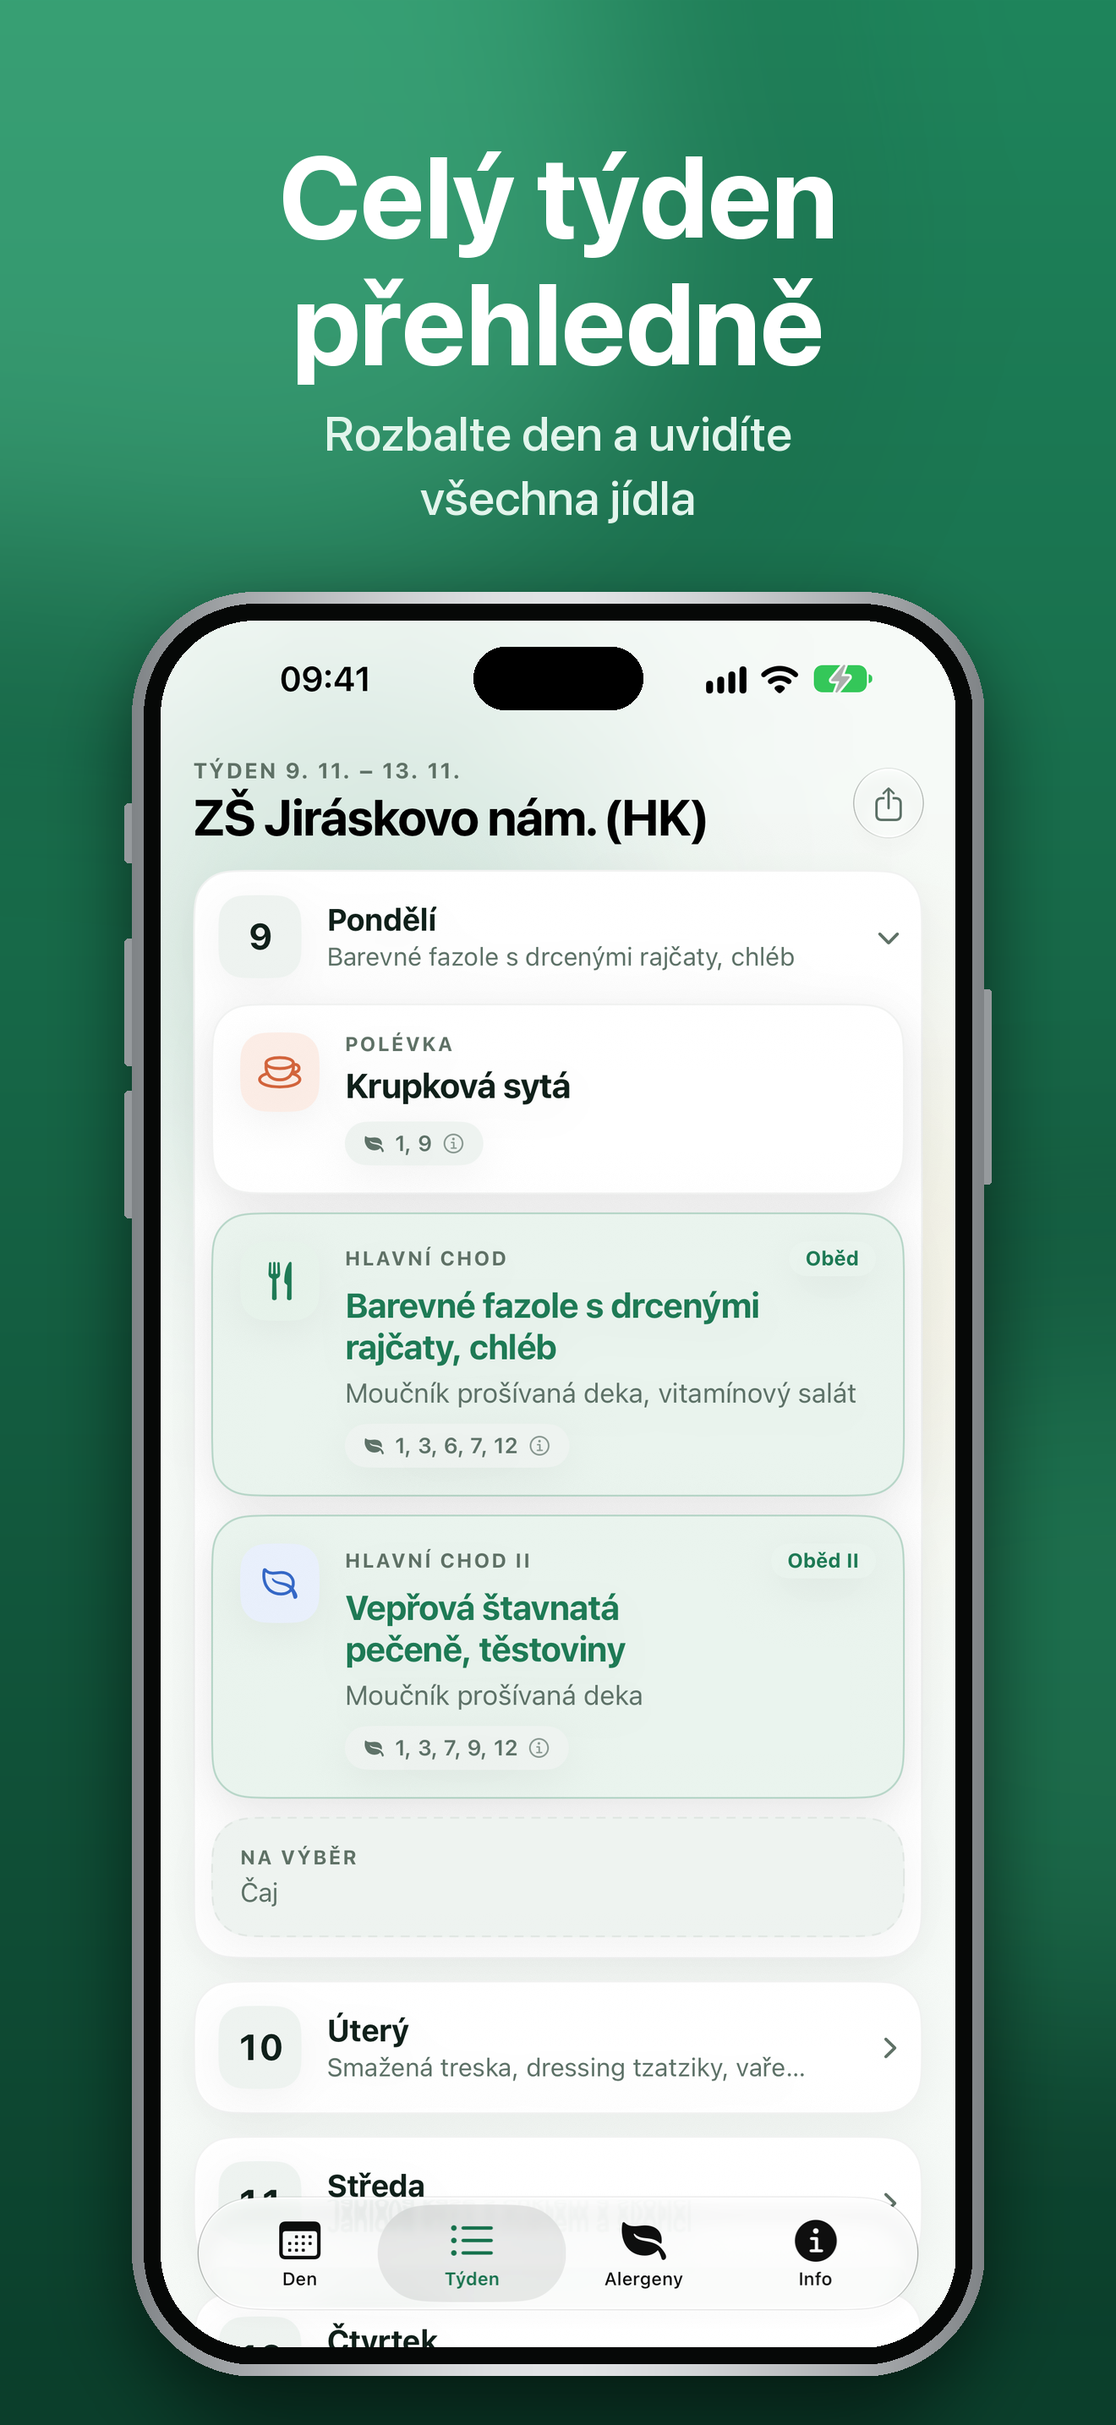
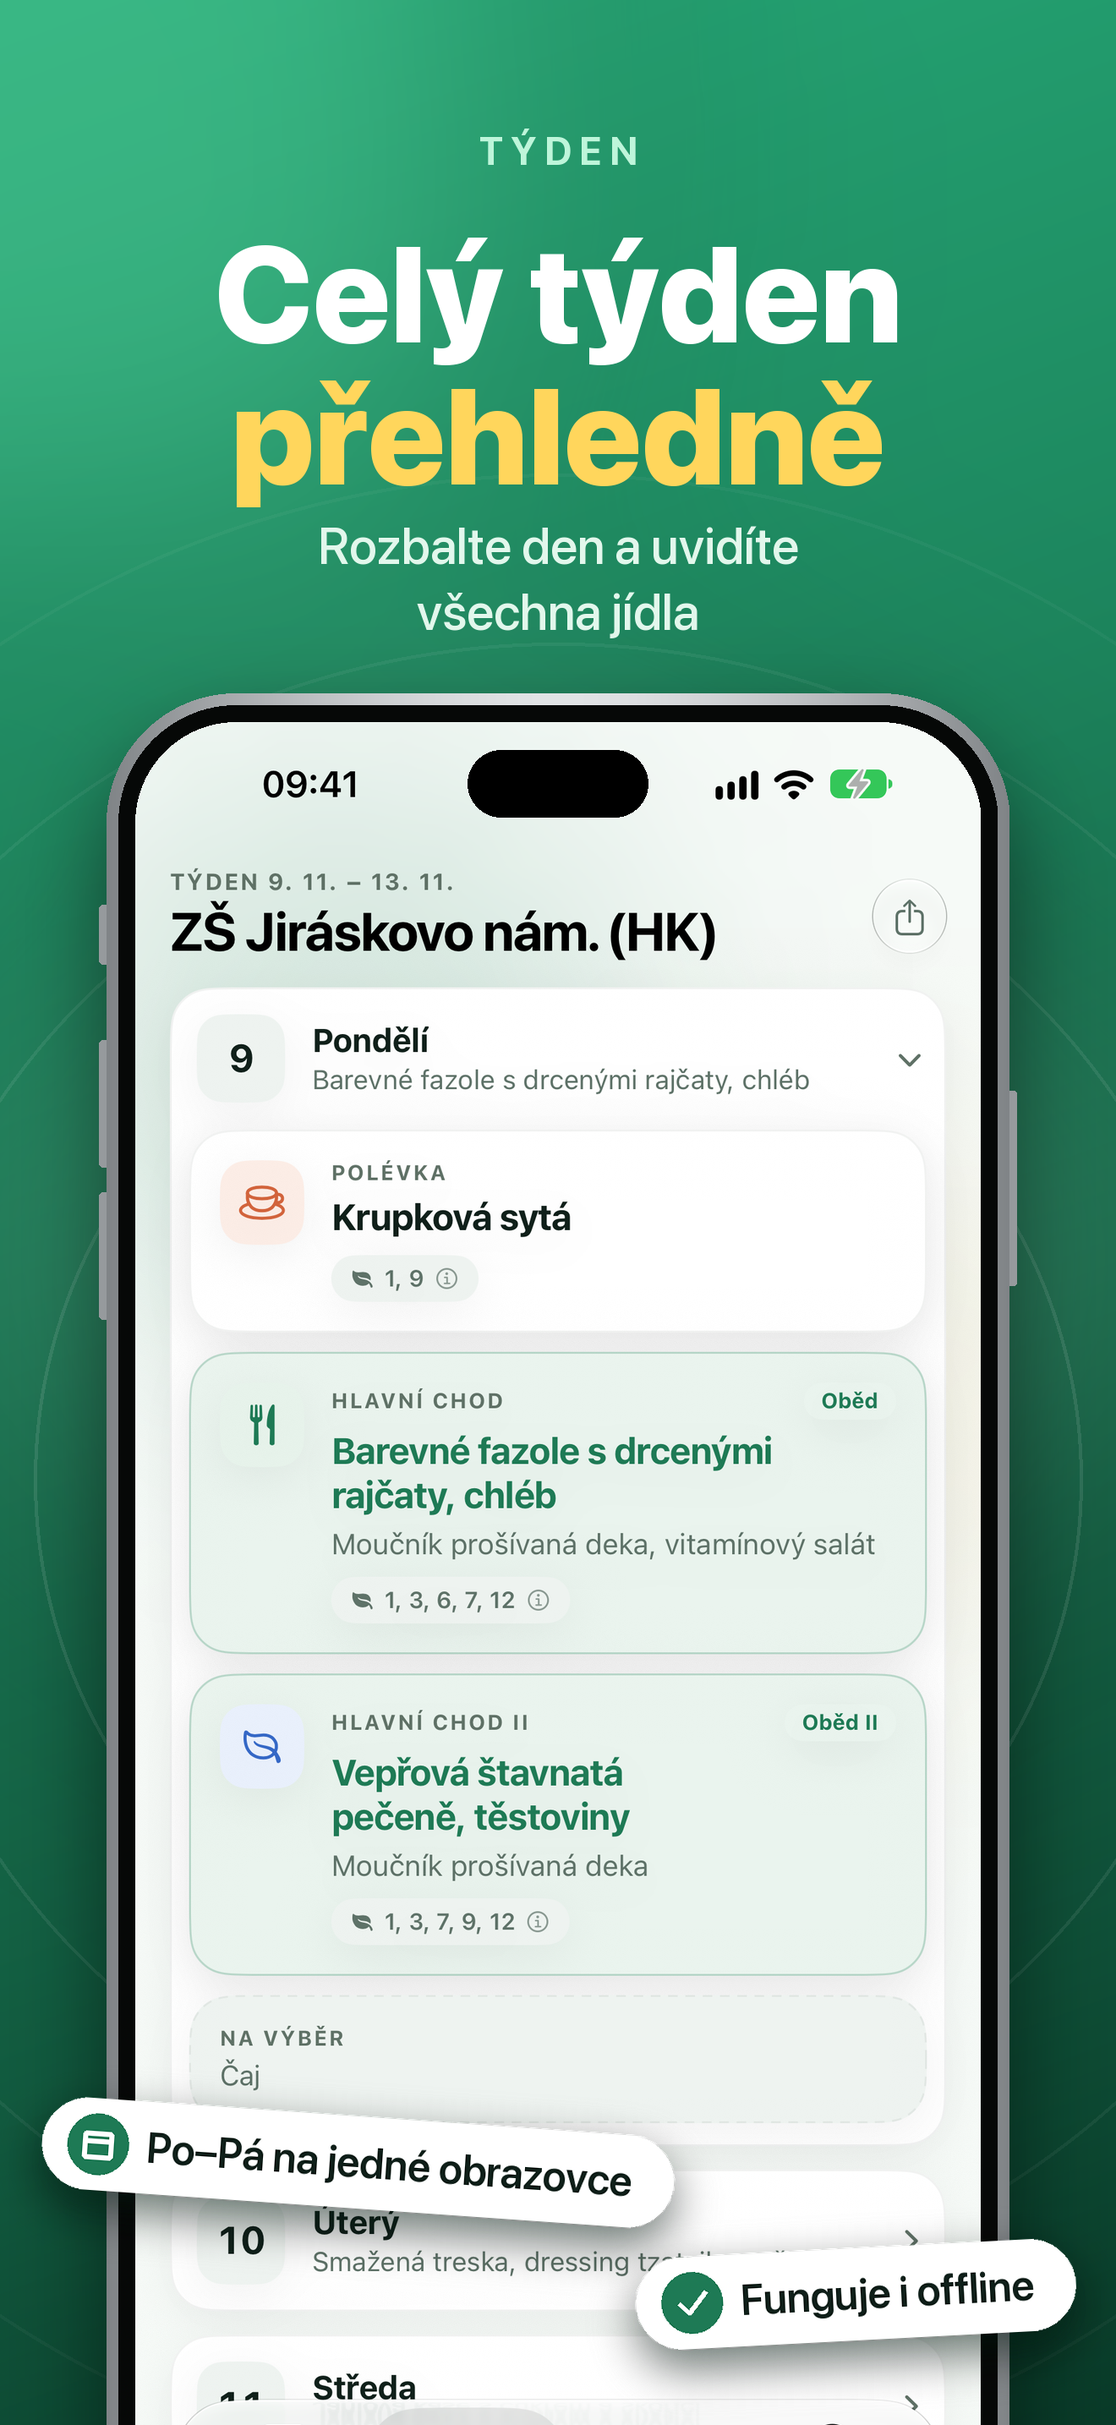
App Store screenshoty: přepracovaná grafika (výrazný nadpis se zvýrazněním, kruhy talíře, větší telefon, bubliny s výhodami, ikona na první obrazovce)

diff --git a/tools/make-screenshots.py b/tools/make-screenshots.py
@@ -1,40 +1,44 @@
 #!/usr/bin/env python3
-"""Složí App Store screenshoty (1320×2868, 6,9") z reálných snímků simulátoru + nadpisů.
+"""Složí App Store screenshoty (1320×2868, 6,9") z reálných snímků simulátoru.
 
     python3 tools/make-screenshots.py
 
 Vstup:  docs/app-store-screenshots/raw/<n>-<název>.png (snímky iPhone 18 Pro Max, světlý režim, 9:41)
 Výstup: docs/app-store-screenshots/<n>-<název>.png
-Písmo: SF Pro (systémové, macOS). Barvy z palety appky.
+Grafika: zelený přechod z palety appky, kruhy „talíře“ v pozadí, nadpis písmem SF Pro (Heavy) se
+zvýrazněným slovem, realistický rám iPhonu a plovoucí „bubliny“ s výhodami. Jména osob se rozostřují.
 """
+import math
 from pathlib import Path
-from PIL import Image, ImageDraw, ImageFilter, ImageFont
+from PIL import Image, ImageChops, ImageDraw, ImageFilter, ImageFont
 
 ROOT = Path(__file__).resolve().parent.parent
 RAW = ROOT / "docs" / "app-store-screenshots" / "raw"
 OUT = ROOT / "docs" / "app-store-screenshots"
 W, H = 1320, 2868
 SF = "/System/Library/Fonts/SFNS.ttf"
+ZVYRAZNENI = (255, 214, 92)          # teplá žlutá – kontrast k zelené
+MINT = (190, 245, 218)
+TMAVA_ZELENA = (14, 84, 58)
 
-SLIDY = [
-    ("1-den", "Co je dnes\nk obědu?", "Jídelníček vaší školy nebo školky\nna jednom místě"),
-    ("2-tyden", "Celý týden\npřehledně", "Rozbalte den a uvidíte\nvšechna jídla"),
-    ("3-obedy", "Vidíte, co má dítě\npřihlášené", "Objednané obědy z jidelna.cz\nu každého dítěte"),
-    ("4-alergeny", "Hlídejte\nalergeny", "Jídla s vaším alergenem\nse hned zvýrazní"),
-    ("5-info", "Vše o jídelně\nna dosah", "Kontakty, doby výdeje,\nředitel i číslo účtu"),
-    ("6-alergeny-nastaveni", "Nastavte,\nco dítě nesmí", "Vlastní alergeny pro každé dítě,\nvšechny na jednom místě"),
-]
-
-
-# Jména skutečných lidí (vedoucí jídelny/kuchyně, ředitel) se v reklamních snímcích rozostřují: {snímek: [(x0, y0, x1, y1), …]}
+# Jména skutečných lidí (vedoucí jídelny/kuchyně, ředitel) se rozostřují: {snímek: [(x0, y0, x1, y1), …]}
 ROZMAZAT = {"5-info": [(560, 2190, 1260, 2270), (560, 2326, 1260, 2406), (560, 2462, 1260, 2540)]}
 
-
-def rozmazat(im, boxy):
-    for b in boxy:
-        oblast = im.crop(b).filter(ImageFilter.GaussianBlur(16))
-        im.paste(oblast, b[:2])
-    return im
+# (soubor, eyebrow, nadpis se {zvýrazněním}, podnadpis, bubliny [(text, ikona, x, y, úhel)])
+SLIDY = [
+    ("1-den", "", "Co je dnes\nk {obědu}?", "Jídelníček školy nebo školky\nna jednom místě",
+     [("Výdej 11:00–14:00", "hodiny", 40, 2470, -4), ("Alergeny u každého jídla", "list", -40, 2640, 3)]),
+    ("2-tyden", "TÝDEN", "Celý týden\n{přehledně}", "Rozbalte den a uvidíte\nvšechna jídla",
+     [("Po–Pá na jedné obrazovce", "kalendar", 40, 2470, -4), ("Funguje i offline", "ok", -40, 2640, 3)]),
+    ("3-obedy", "OBJEDNÁNO", "Vidíte, co má dítě\n{přihlášené}", "Objednané obědy z jidelna.cz\nu každého dítěte",
+     [("Přihlášeno · menu 1", "ok", 40, 2470, -4), ("Appka jen čte, nic neodhlašuje", "zamek", -40, 2640, 3)]),
+    ("4-alergeny", "ALERGENY", "Hlídejte\n{alergeny}", "Jídla s vaším alergenem\nse hned zvýrazní",
+     [("Alergen 6 · soja", "vykricnik", 40, 2470, -4), ("Pro každé dítě zvlášť", "osoba", -40, 2640, 3)]),
+    ("5-info", "JÍDELNA", "Vše o jídelně\n{na dosah}", "Kontakty, doby výdeje,\nředitel i číslo účtu",
+     [("Doba výdeje", "hodiny", 40, 2470, -4), ("Telefon · e-mail · web", "telefon", -40, 2640, 3)]),
+    ("6-alergeny-nastaveni", "NASTAVENÍ", "Nastavte,\nco dítě {nesmí}", "Vlastní alergeny pro každé dítě,\nvšechny na jednom místě",
+     [("Profil pro každé dítě", "osoba", 40, 2470, -4), ("Upozornění v 18:00", "zvonek", -40, 2640, 3)]),
+]
 
 
 def pismo(vel, vaha):
@@ -43,37 +47,129 @@ def pismo(vel, vaha):
     return f
 
 
+def rozmazat(im, boxy):
+    for b in boxy:
+        im.paste(im.crop(b).filter(ImageFilter.GaussianBlur(16)), b[:2])
+    return im
+
+
+# ── pozadí ─────────────────────────────────────────────────────────────
+
 def pozadi():
-    # svislý přechod z palety appky + dvě rozostřené záře
-    g = Image.new("RGB", (W, H))
-    px = g.load()
-    horni, dolni = (31, 133, 92), (11, 62, 43)
-    for y in range(H):
-        t = y / (H - 1)
-        c = tuple(int(horni[i] + (dolni[i] - horni[i]) * t) for i in range(3))
-        for x in range(W):
-            px[x, y] = c
-    z = Image.new("RGBA", (W, H), (0, 0, 0, 0))
-    d = ImageDraw.Draw(z)
-    d.ellipse((-300, -200, 900, 800), fill=(120, 230, 180, 70))
-    d.ellipse((700, 1500, 1700, 2500), fill=(70, 200, 140, 55))
-    z = z.filter(ImageFilter.GaussianBlur(160))
-    return Image.alpha_composite(g.convert("RGBA"), z)
+    """Diagonální přechod + velká záře za telefonem + soustředné kruhy (odkaz na talíř z ikony)."""
+    import numpy as np
+    a, b = np.array((38, 168, 118), float), np.array((9, 58, 40), float)
+    yy, xx = np.mgrid[0:H, 0:W]
+    t = (xx * 0.35 + yy * 0.94) / (W * 0.35 + H * 0.94)          # diagonála shora doleva → dolů
+    t = np.clip(t, 0, 1)[..., None] ** 1.15
+    zakl = Image.fromarray((a + (b - a) * t).astype("uint8"), "RGB").convert("RGBA")
+    vrstva = Image.new("RGBA", (W, H), (0, 0, 0, 0))
+    d = ImageDraw.Draw(vrstva)
+    # záře
+    d.ellipse((60, 880, 1260, 2080), fill=(170, 255, 214, 95))
+    d.ellipse((-420, -260, 700, 760), fill=(120, 235, 180, 60))
+    vrstva = vrstva.filter(ImageFilter.GaussianBlur(190))
+    zakl = Image.alpha_composite(zakl, vrstva)
+    # kruhy
+    kruhy = Image.new("RGBA", (W, H), (0, 0, 0, 0))
+    d = ImageDraw.Draw(kruhy)
+    cx, cy = W // 2, 1750
+    for r, al in ((620, 26), (800, 20), (990, 14), (1190, 9)):
+        d.ellipse((cx - r, cy - r, cx + r, cy + r), outline=(255, 255, 255, al), width=4)
+    return Image.alpha_composite(zakl, kruhy)
 
 
-def zaoblit(im, r):
-    m = Image.new("L", im.size, 0)
-    ImageDraw.Draw(m).rounded_rectangle((0, 0, im.size[0], im.size[1]), r, fill=255)
-    out = im.convert("RGBA"); out.putalpha(m)
-    return out
+# ── text ──────────────────────────────────────────────────────────────
 
+def sirka(d, txt, f, track=0):
+    return d.textlength(txt, font=f) + track * max(len(txt) - 1, 0)
+
+
+def kresli(d, x, y, txt, f, fill, track=0):
+    if not track:
+        d.text((x, y), txt, font=f, fill=fill)
+        return x + d.textlength(txt, font=f)
+    for ch in txt:
+        d.text((x, y), ch, font=f, fill=fill)
+        x += d.textlength(ch, font=f) + track
+    return x
+
+
+def nadpis_radek(d, y, radek, f):
+    """Řádek s {zvýrazněním}: bílý text + žluté slovo, vystředěno."""
+    casti, i = [], 0
+    while i < len(radek):
+        if radek[i] == "{":
+            j = radek.index("}", i)
+            casti.append((radek[i + 1:j], ZVYRAZNENI)); i = j + 1
+        else:
+            j = radek.find("{", i); j = len(radek) if j < 0 else j
+            casti.append((radek[i:j], (255, 255, 255))); i = j
+    celkem = sum(d.textlength(t, font=f) for t, _ in casti)
+    x = (W - celkem) / 2
+    for t, c in casti:
+        x = kresli(d, x, y, t, f, c + (255,))
+
+
+# ── bubliny ───────────────────────────────────────────────────────────
+
+def ikona(d, kind, cx, cy, r, barva):
+    d.ellipse((cx - r, cy - r, cx + r, cy + r), fill=barva)
+    b = (255, 255, 255, 255)
+    lw = max(r // 6, 4)
+    if kind == "ok":
+        d.line([(cx - r * .42, cy + r * .02), (cx - r * .1, cy + r * .34), (cx + r * .48, cy - r * .34)], fill=b, width=lw, joint="curve")
+    elif kind == "vykricnik":
+        d.line([(cx, cy - r * .5), (cx, cy + r * .12)], fill=b, width=lw)
+        d.ellipse((cx - lw * .7, cy + r * .36, cx + lw * .7, cy + r * .36 + lw * 1.4), fill=b)
+    elif kind == "hodiny":
+        d.ellipse((cx - r * .55, cy - r * .55, cx + r * .55, cy + r * .55), outline=b, width=lw)
+        d.line([(cx, cy), (cx, cy - r * .35)], fill=b, width=lw); d.line([(cx, cy), (cx + r * .28, cy + r * .12)], fill=b, width=lw)
+    elif kind == "kalendar":
+        d.rounded_rectangle((cx - r * .5, cy - r * .42, cx + r * .5, cy + r * .5), r * .12, outline=b, width=lw)
+        d.line([(cx - r * .5, cy - r * .1), (cx + r * .5, cy - r * .1)], fill=b, width=lw)
+    elif kind == "zamek":
+        d.rounded_rectangle((cx - r * .42, cy - r * .05, cx + r * .42, cy + r * .5), r * .1, fill=b)
+        d.arc((cx - r * .28, cy - r * .55, cx + r * .28, cy + r * .12), 180, 360, fill=b, width=lw)
+    elif kind == "osoba":
+        d.ellipse((cx - r * .22, cy - r * .5, cx + r * .22, cy - r * .06), fill=b)
+        d.pieslice((cx - r * .5, cy + r * .02, cx + r * .5, cy + r * .9), 180, 360, fill=b)
+    elif kind == "telefon":
+        d.rounded_rectangle((cx - r * .28, cy - r * .5, cx + r * .28, cy + r * .5), r * .1, outline=b, width=lw)
+    elif kind == "zvonek":
+        d.pieslice((cx - r * .42, cy - r * .5, cx + r * .42, cy + r * .4), 180, 360, fill=b)
+        d.rectangle((cx - r * .42, cy - r * .05, cx + r * .42, cy + r * .32), fill=b)
+        d.ellipse((cx - r * .14, cy + r * .3, cx + r * .14, cy + r * .56), fill=b)
+    elif kind == "list":
+        d.pieslice((cx - r * .5, cy - r * .5, cx + r * .5, cy + r * .5), 20, 200, fill=b)
+
+
+def bublina(text, kind, uhel):
+    f = pismo(50, "Semibold")
+    dm = ImageDraw.Draw(Image.new("RGBA", (10, 10)))
+    tw = dm.textlength(text, font=f)
+    r = 36
+    w, h = int(tw + 2 * 38 + 2 * r + 24), 108
+    pad = 90
+    im = Image.new("RGBA", (w + 2 * pad, h + 2 * pad), (0, 0, 0, 0))
+    stin = Image.new("RGBA", im.size, (0, 0, 0, 0))
+    ImageDraw.Draw(stin).rounded_rectangle((pad, pad + 22, pad + w, pad + h + 22), h // 2, fill=(0, 30, 18, 150))
+    im = Image.alpha_composite(im, stin.filter(ImageFilter.GaussianBlur(26)))
+    d = ImageDraw.Draw(im)
+    d.rounded_rectangle((pad, pad, pad + w, pad + h), h // 2, fill=(255, 255, 255, 255))
+    barva = (222, 64, 88, 255) if kind == "vykricnik" else (30, 122, 85, 255)
+    ikona(d, kind, pad + 30 + r, pad + h // 2, r, barva)
+    d.text((pad + 30 + 2 * r + 22, pad + h // 2 - 31), text, font=f, fill=(16, 32, 26, 255))
+    return im.rotate(uhel, resample=Image.BICUBIC, expand=True)
+
+
+# ── telefon ───────────────────────────────────────────────────────────
 
 def kov(w, h, r, svetly=(226, 228, 230), tmavy=(128, 132, 135)):
-    """Titanový rám: vodorovný kovový přechod se světlým středem."""
     g = Image.new("RGBA", (w, h))
     px = g.load()
     for x in range(w):
-        t = abs((x / (w - 1)) - 0.5) * 2          # 0 uprostřed, 1 na okrajích
+        t = abs((x / (w - 1)) - 0.5) * 2
         c = tuple(int(svetly[i] + (tmavy[i] - svetly[i]) * (t ** 1.6)) for i in range(3))
         for y in range(h):
             px[x, y] = c + (255,)
@@ -84,66 +180,90 @@ def kov(w, h, r, svetly=(226, 228, 230), tmavy=(128, 132, 135)):
 
 
 def iphone(shot, sw):
-    """Obrázek obrazovky → realistický iPhone (rám, tlačítka, Dynamic Island). Vrací (obrázek, (x, y0))."""
     sh = round(shot.size[1] * sw / shot.size[0])
     shot = shot.resize((sw, sh), Image.LANCZOS)
-    obrazovka_r = 112
+    obrazovka_r = round(112 * sw / 940)
     cerny, kovovy = 20, 14
     ob = cerny + kovovy
     w, h = sw + 2 * ob, sh + 2 * ob
     vnejsi_r = obrazovka_r + ob
-    tlacitko = 9
-    pl = Image.new("RGBA", (w + 2 * tlacitko, h), (0, 0, 0, 0))
-    ox = tlacitko
-    # boční tlačítka (vystupují z rámu)
+    tl = 9
+    pl = Image.new("RGBA", (w + 2 * tl, h), (0, 0, 0, 0))
+    ox = tl
     d = ImageDraw.Draw(pl)
     for y, v in ((250, 70), (410, 150), (590, 150)):
-        d.rounded_rectangle((ox - tlacitko, y, ox + 14, y + v), 5, fill=(150, 154, 157, 255))
-    d.rounded_rectangle((ox + w - 14, 470, ox + w + tlacitko, 470 + 230), 5, fill=(150, 154, 157, 255))
-    # kovový rám a černý okraj
+        d.rounded_rectangle((ox - tl, y, ox + 14, y + v), 5, fill=(150, 154, 157, 255))
+    d.rounded_rectangle((ox + w - 14, 470, ox + w + tl, 700), 5, fill=(150, 154, 157, 255))
     pl.alpha_composite(kov(w, h, vnejsi_r), (ox, 0))
     cerna = Image.new("RGBA", (w - 2 * kovovy, h - 2 * kovovy), (0, 0, 0, 0))
     ImageDraw.Draw(cerna).rounded_rectangle((0, 0, cerna.size[0], cerna.size[1]), vnejsi_r - kovovy, fill=(6, 8, 7, 255))
     pl.alpha_composite(cerna, (ox + kovovy, kovovy))
-    # obrazovka
     m = Image.new("L", shot.size, 0)
     ImageDraw.Draw(m).rounded_rectangle((0, 0, sw, sh), obrazovka_r, fill=255)
     scr = shot.convert("RGBA"); scr.putalpha(m)
     pl.alpha_composite(scr, (ox + ob, ob))
-    # Dynamic Island
     iw, ih = round(290 * sw / 1320 * 0.97), round(107 * sw / 1320 * 0.97)
+    ix, iy = ox + ob + (sw - iw) // 2, ob + round(43 * sw / 1320)
+    ImageDraw.Draw(pl).rounded_rectangle((ix, iy, ix + iw, iy + ih), ih // 2, fill=(0, 0, 0, 255))
+    return pl
+
+
+# ── slide ─────────────────────────────────────────────────────────────
+
+def logo_hlavicka(pl):
+    """Slide 1: ikona appky + název místo eyebrow."""
+    ic = Image.open(ROOT / "assets" / "icon-512.png").convert("RGB").resize((168, 168), Image.LANCZOS)
+    m = Image.new("L", ic.size, 0)
+    ImageDraw.Draw(m).rounded_rectangle((0, 0, 168, 168), 40, fill=255)
+    ic = ic.convert("RGBA"); ic.putalpha(m)
     d = ImageDraw.Draw(pl)
-    ix = ox + ob + (sw - iw) // 2
-    iy = ob + round(43 * sw / 1320)
-    d.rounded_rectangle((ix, iy, ix + iw, iy + ih), ih // 2, fill=(0, 0, 0, 255))
-    x = (W - pl.size[0]) // 2
-    return pl, (x, 700)
+    f = pismo(60, "Bold")
+    nazev = "Škola na talíři"
+    tw = d.textlength(nazev, font=f)
+    x = (W - (168 + 28 + tw)) / 2
+    pl.alpha_composite(ic, (int(x), 120))
+    d.text((x + 168 + 28, 120 + 168 / 2 - 36), nazev, font=f, fill=(255, 255, 255, 255))
 
 
-def text_stred(d, y, text, font, fill, mezera):
-    for radek in text.split("\n"):
-        w = d.textlength(radek, font=font)
-        d.text(((W - w) / 2, y), radek, font=font, fill=fill)
-        y += mezera
-    return y
-
-
-def slide(jmeno, nadpis, podnadpis):
+def slide(jmeno, eyebrow, nadpis, podnadpis, bubliny):
     pl = pozadi()
     d = ImageDraw.Draw(pl)
-    y = text_stred(d, 150, nadpis, pismo(136, "Bold"), (255, 255, 255, 255), 150)
-    text_stred(d, y + 26, podnadpis, pismo(58, "Medium"), (226, 245, 236, 235), 76)
+    if jmeno == "1-den":
+        logo_hlavicka(pl); y = 360
+    else:
+        f = pismo(46, "Bold")
+        tw = sirka(d, eyebrow, f, 9)
+        kresli(d, (W - tw) / 2, 150, eyebrow, f, MINT + (255,), track=9)
+        y = 250
+    vel = 160
+    plain = [r.replace("{", "").replace("}", "") for r in nadpis.split("\n")]
+    while max(d.textlength(r, font=pismo(vel, "Heavy")) for r in plain) > W - 150:
+        vel -= 4
+    fn = pismo(vel, "Heavy")
+    for radek in nadpis.split("\n"):
+        nadpis_radek(d, y, radek, fn)
+        y += round(vel * 1.05)
+    fp = pismo(60, "Medium")
+    y += 22
+    for radek in podnadpis.split("\n"):
+        tw = d.textlength(radek, font=fp)
+        d.text(((W - tw) / 2, y), radek, font=fp, fill=(226, 247, 236, 235))
+        y += 78
 
-    shot = Image.open(RAW / f"{jmeno}.png").convert("RGB")
-    shot = rozmazat(shot, ROZMAZAT.get(jmeno, []))
-    telefon, (x, y0) = iphone(shot, 940)
+    shot = rozmazat(Image.open(RAW / f"{jmeno}.png").convert("RGB"), ROZMAZAT.get(jmeno, []))
+    tel = iphone(shot, 1000)
+    x, y0 = (W - tel.size[0]) // 2, (930 if jmeno == "1-den" else 820)
     stin = Image.new("RGBA", pl.size, (0, 0, 0, 0))
-    ImageDraw.Draw(stin).rounded_rectangle((x + 10, y0 + 40, x + telefon.size[0] - 10, y0 + 40 + telefon.size[1]), 150, fill=(0, 0, 0, 150))
-    pl = Image.alpha_composite(pl, stin.filter(ImageFilter.GaussianBlur(46)))
-    pl.alpha_composite(telefon, (x, y0))
+    ImageDraw.Draw(stin).rounded_rectangle((x + 20, y0 + 60, x + tel.size[0] - 20, y0 + tel.size[1]), 160, fill=(0, 20, 12, 170))
+    pl = Image.alpha_composite(pl, stin.filter(ImageFilter.GaussianBlur(56)))
+    pl.alpha_composite(tel, (x, y0))
+    for txt, kind, bx, by, uhel in bubliny:
+        b = bublina(txt, kind, uhel)
+        px = bx - 90 if bx >= 0 else W + bx + 90 - b.size[0]
+        pl.alpha_composite(b, (px, by - 90))
     pl.convert("RGB").save(OUT / f"{jmeno}.png", optimize=True)
 
 
 if __name__ == "__main__":
-    for j, n, p in SLIDY:
-        slide(j, n, p); print("hotovo", j)
+    for s in SLIDY:
+        slide(*s); print("hotovo", s[0])
